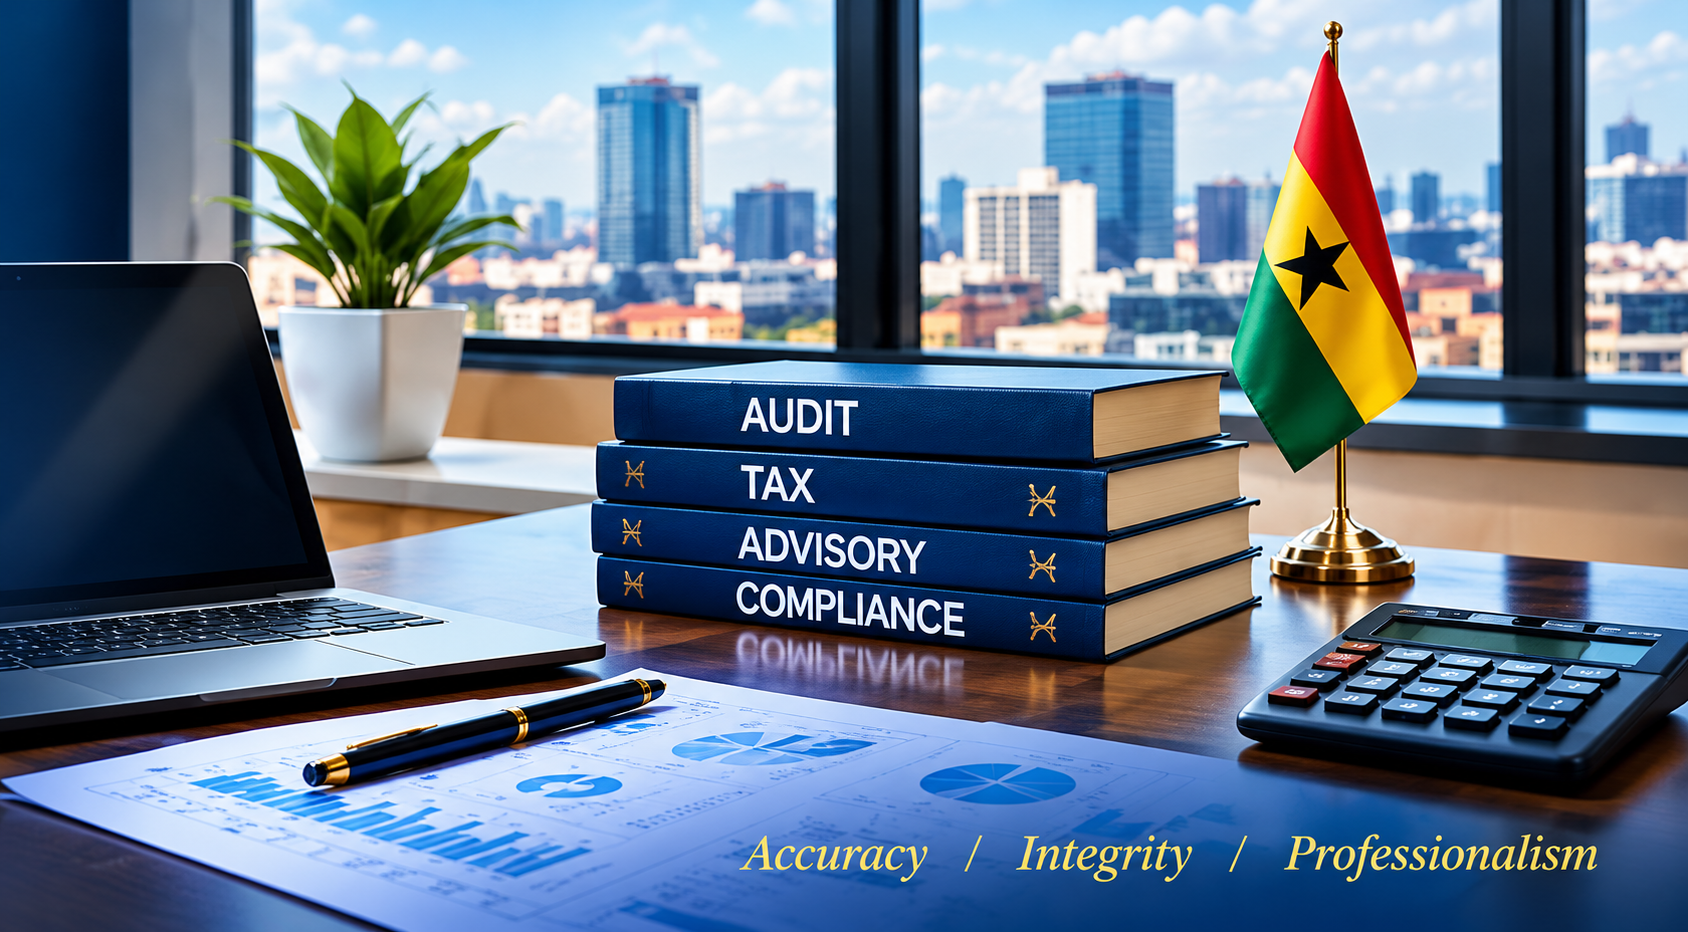
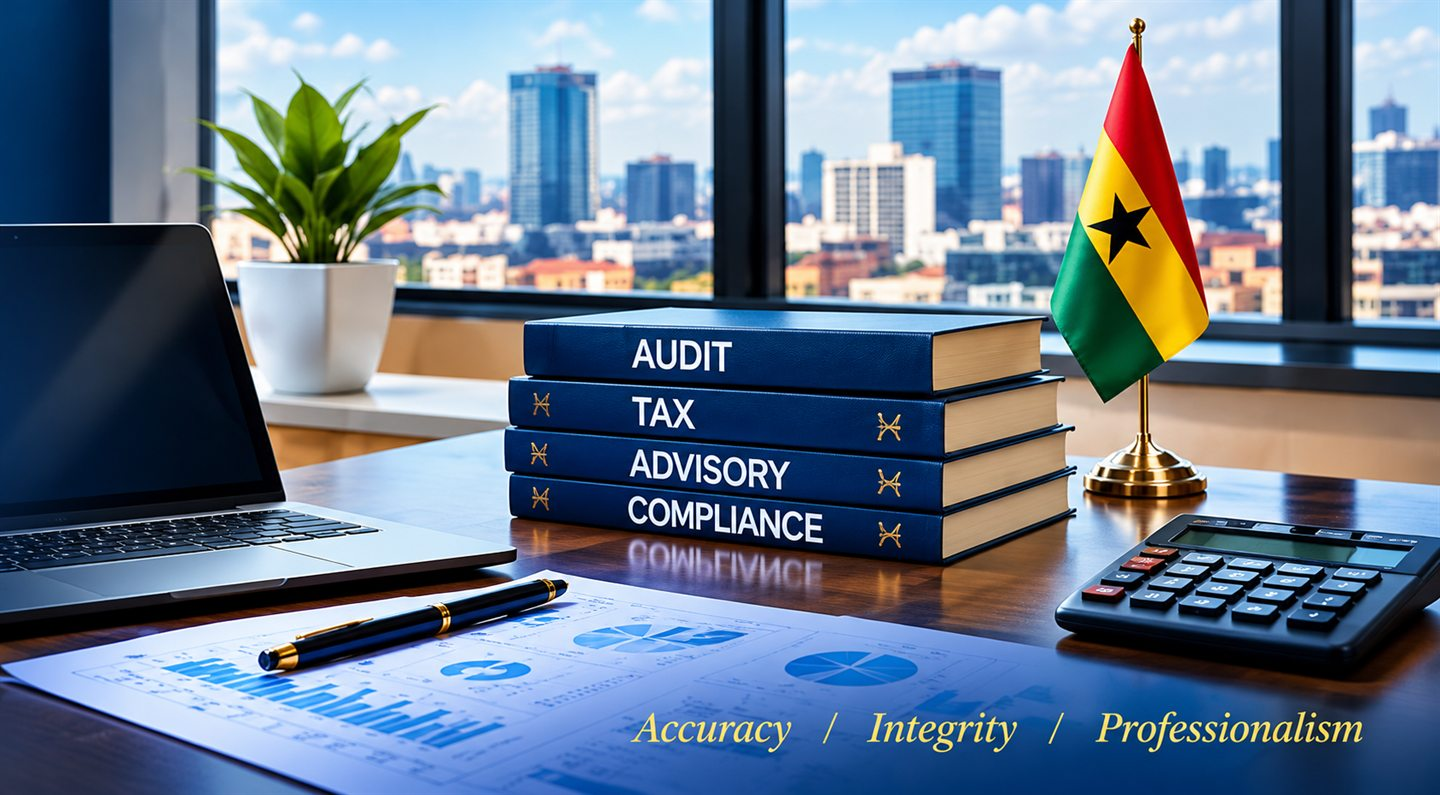
fix(hero): restore solid gold brilliance for typewriter text and lock image optimization

diff --git a/src/components/Hero.jsx b/src/components/Hero.jsx
@@ -84,10 +84,8 @@ export function Hero({ onOpenContact }) {
 
           <h1 className="hero-title">
             Your Trusted Partner <br />
-            <span className="hero-title-accent">
-              in {displayText}
-              <span className="typing-cursor" aria-hidden="true">|</span>
-            </span>
+            in <span className="hero-title-accent">{displayText}</span>
+            <span className="typing-cursor" aria-hidden="true">|</span>
           </h1>
 
           <p className="hero-description">
@@ -126,10 +124,12 @@ export function Hero({ onOpenContact }) {
         <div className="hero-visual-column reveal-right">
           <div className="hero-image-wrapper">
             <img
-              src="/images/Audit-Tax-and-Advisory-Workspace.png"
+              src="/images/Audit-Tax-and-Advisory-Workspace.jpg"
               alt="FinAdvisory professional accounting desk with books on Audit, Tax, Advisory, Compliance, and Ghana flag"
               className="hero-desk-image hero-cinematic-zoom"
               loading="eager"
+              width="1440"
+              height="810"
             />
             <div className="hero-image-overlay" />
             <div className="hero-image-sheen" />

diff --git a/src/styles.css b/src/styles.css
@@ -579,13 +579,36 @@ h1, h2, h3, h4 {
 .hero-title {
   font-size: clamp(28px, 3.4vw, 46px);
   color: #ffffff;
-  line-height: 1.1;
+  line-height: 1.15;
   margin-bottom: 16px;
   letter-spacing: -0.6px;
 }
 
+/* Dynamic Typewriter Subheadline with Royal Ghanaian Gold Brilliance */
 .hero-title-accent {
-  color: #ffffff;
+  display: inline;
+  color: var(--gold-400);
+  font-weight: 800;
+  text-shadow: 0 0 20px rgba(216, 173, 56, 0.45);
+}
+
+/* Glowing Gold Typewriter Cursor */
+.typing-cursor {
+  display: inline-block;
+  margin-left: 3px;
+  color: var(--gold-400);
+  font-weight: 300;
+  text-shadow: 0 0 10px rgba(216, 173, 56, 0.9);
+  animation: cursorBlink 0.85s step-start infinite;
+}
+
+@keyframes cursorBlink {
+  0%, 100% {
+    opacity: 1;
+  }
+  50% {
+    opacity: 0;
+  }
 }
 
 .hero-description {
